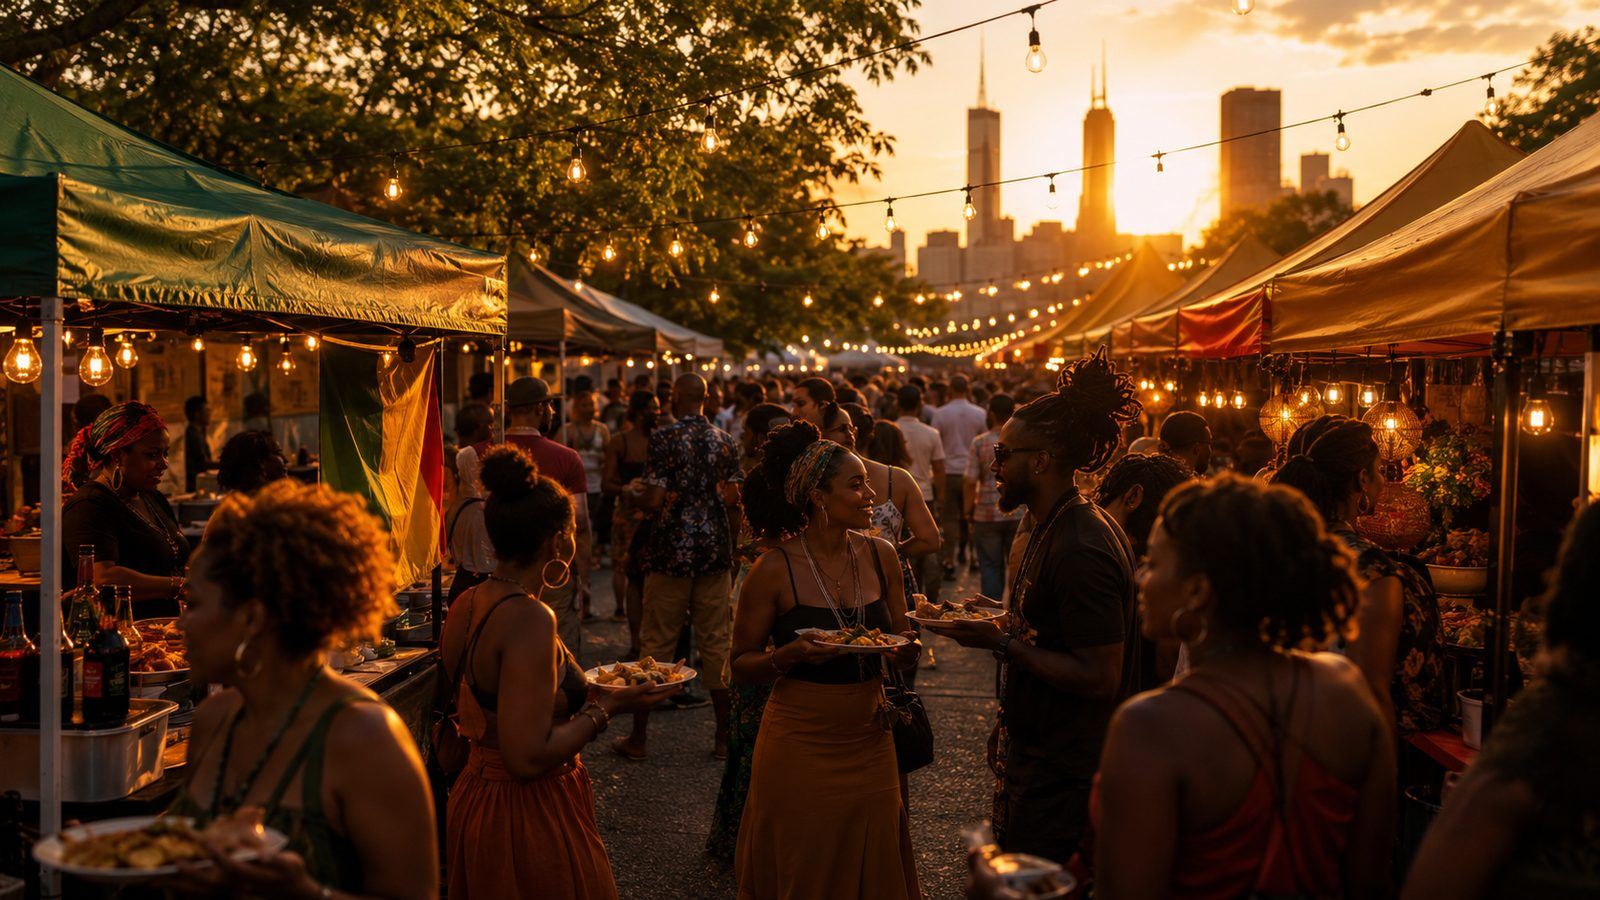
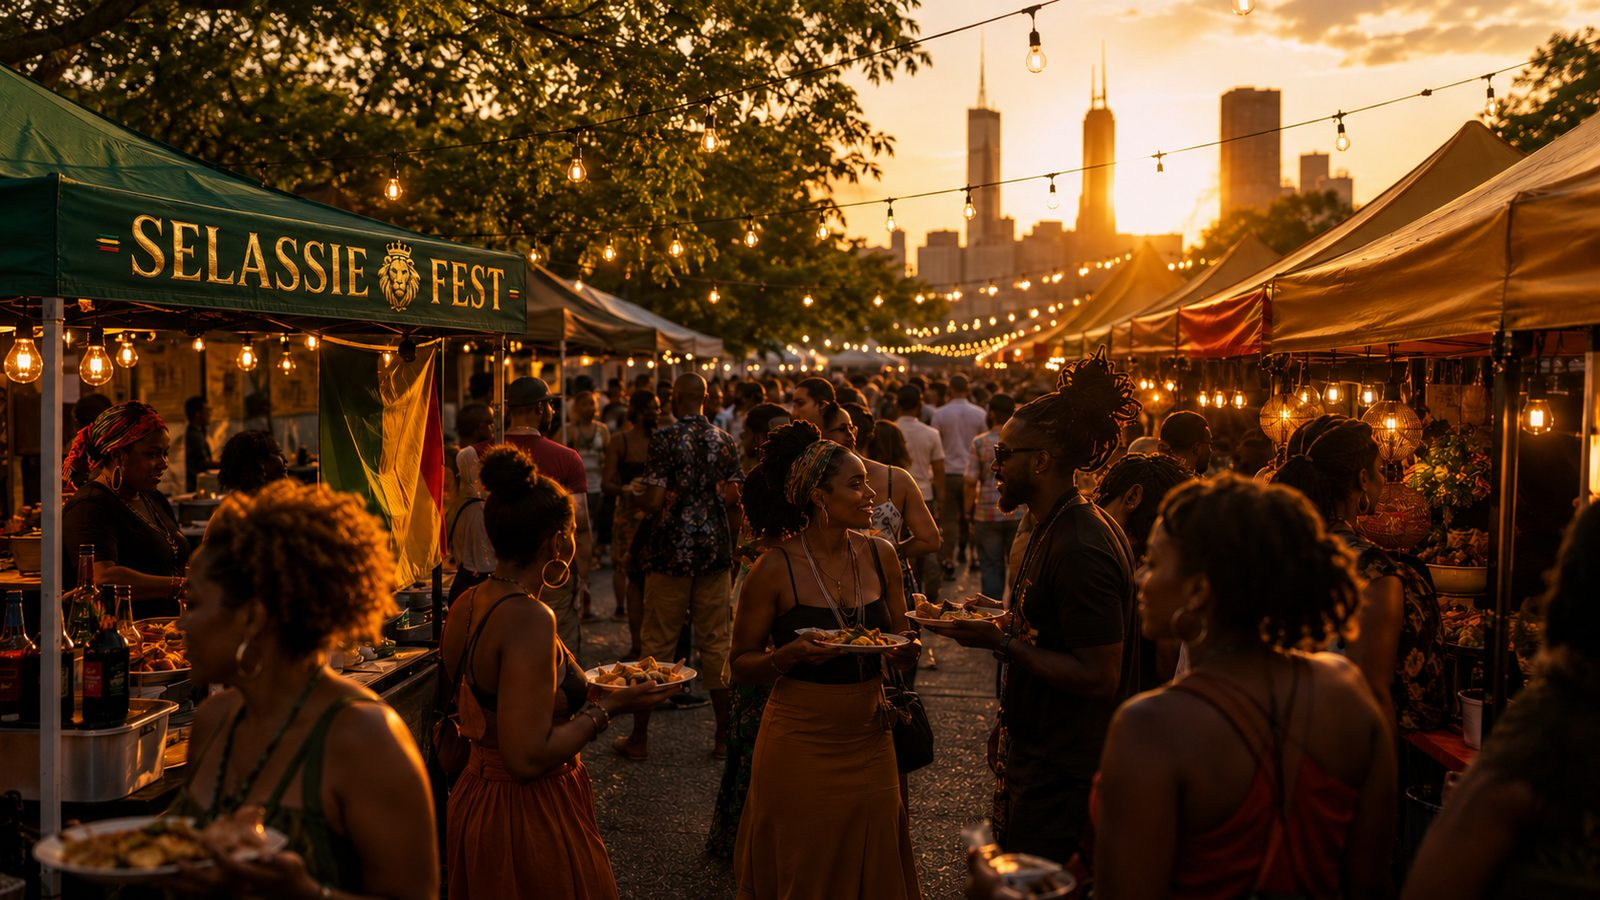
Update slides 5, 6, 9, 10 artwork and split slide 9 narration
Swaps in the branded versions of the phone/festival, marketplace, Main
Stage, and donation-letter images (Influencer badge, SelassieFest tent
signage, Lion of Judah banners, and the actual acknowledgment letter
mockup), compressed to match the rest of the deck.

Slide 9 narration: split the recap/ask line into two separate beats,
dropped the "framed as gratitude, not a bill" line, kept the
acknowledgment-letter line.

diff --git a/plates-for-purpose/jerky-jerk/js/frames-data.js b/plates-for-purpose/jerky-jerk/js/frames-data.js
@@ -158,8 +158,8 @@ const FRAMES = [
     visual: 'A formal letter graphic on letterhead, a pen resting on it, warm desk lighting.',
     headline: 'Week 4: we sent the recap, then the ask — in writing.',
     voice: [
-      'A short recap of impressions, engagement, and follower lift, plus the formal request for the donation.',
-      'Framed as gratitude and continued partnership, not a bill for content already delivered.',
+      'A short recap of impressions, engagement, and follower lift.',
+      'Plus the formal request for the donation.',
       'Jerky Jerk got a donation acknowledgment letter for their tax records.'
     ],
     tellMore: 'Ras Tafari Inc sent Jerky Jerk a short recap (impressions, engagement, follower lift) plus a formal written request for the in-kind donation. The ask was framed as gratitude and continued partnership, not a bill — the influencer content was already delivered as goodwill. Ras Tafari Inc provided a donation acknowledgment letter for the restaurant’s tax records.'
